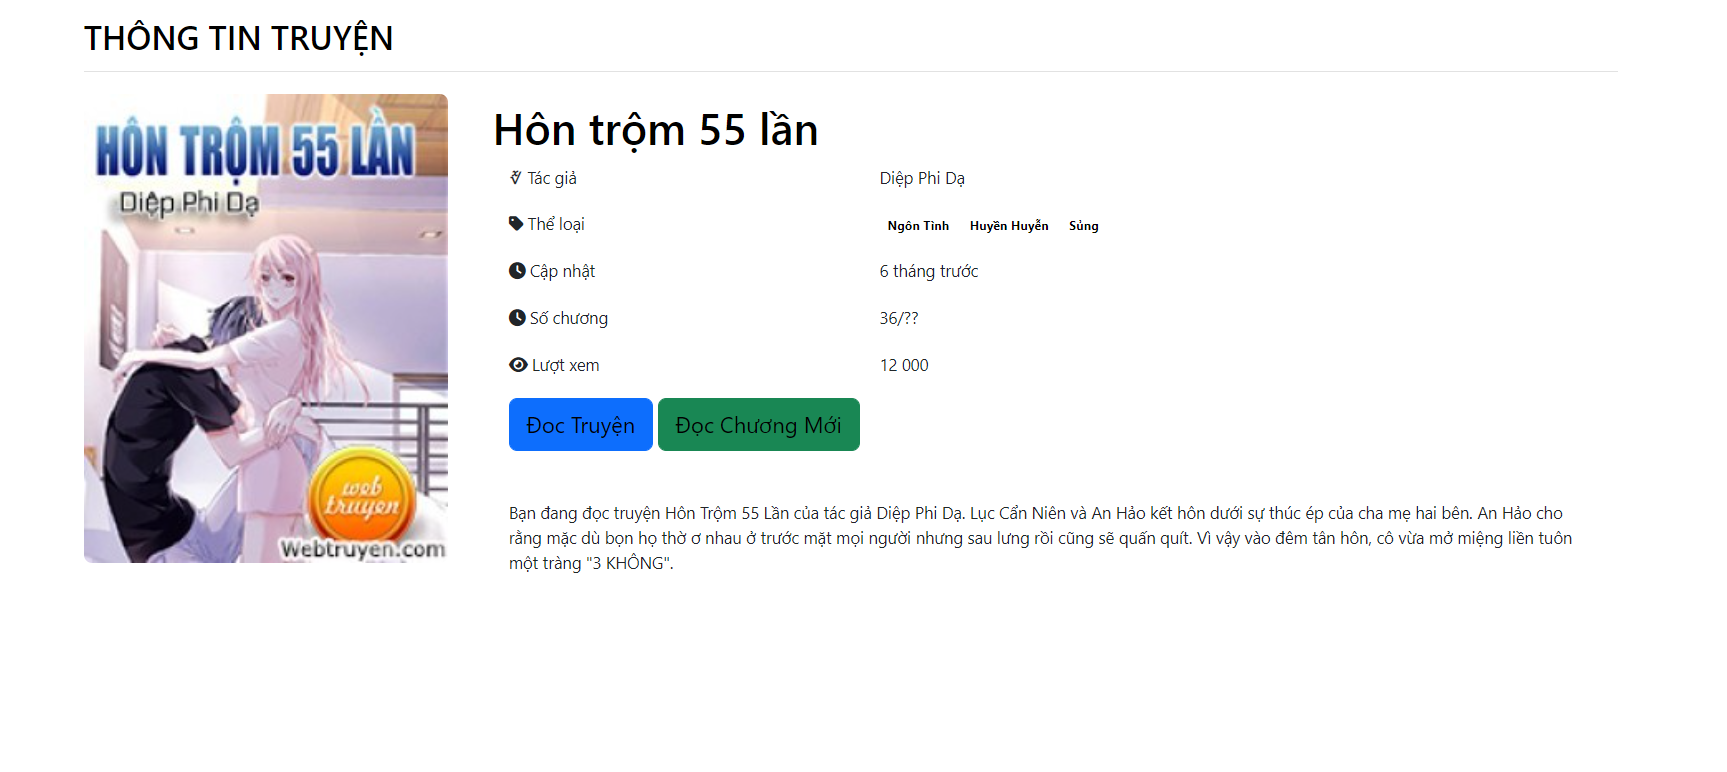
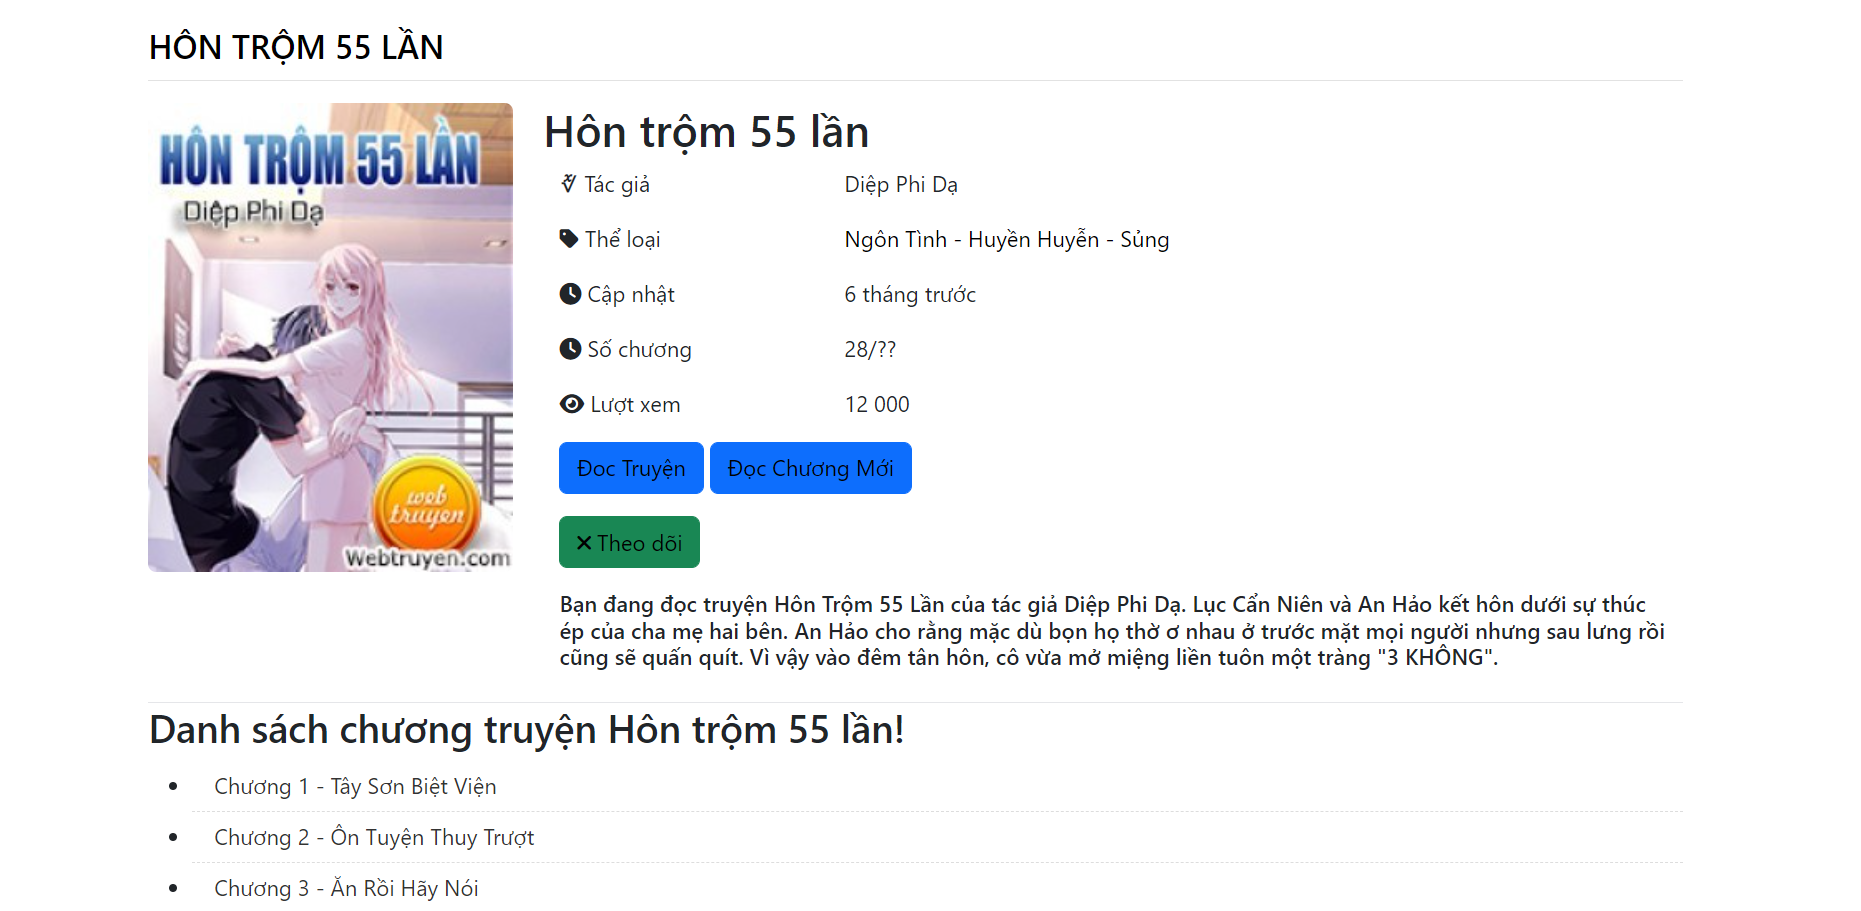
Update module 9

diff --git a/front-end/module/E-09/less/style-09.less b/front-end/module/E-09/less/style-09.less
@@ -22,86 +22,26 @@
             .card-image {
 
                 position: relative;
-
                 .card-img-overlay {
                     // width: 90% !important;
                     transition: all .4s ease-out;
-
                 }
-
-                .m-wrap-genre {
-                    position: absolute;
-                    display: flex;
-                    flex-wrap: wrap;
-                    top: 0;
-                    left: 0;
-                    color: #fff;
-                    transition: all 1s;
-
-                    .genre-item.full::after {
-                        display: block;
-                        content: "FULL";
-                        padding: 0 10px;
-                        border-radius: 3px;
-                        background: #00b47b;
-                        animation: flash 1s alternate infinite;
-                    }
-
-                    .genre-item.new::after {
-                        display: block;
-                        content: "NEW";
-                        padding: 0 10px;
-                        border-radius: 3px;
-                        background: #006ef5;
-                        animation: flash 1s alternate infinite;
-                    }
-
-                    .genre-item.hot::after {
-                        display: block;
-                        content: "HOT";
-                        padding: 0 10px;
-                        border-radius: 3px;
-                        background: #EE2E31;
-                        animation: flash 1s alternate infinite;
-                    }
-
-                    .genre-item {
-                        display: block;
-                        width: 50px;
-                        font-size: .7rem;
-                        font-weight: 500;
-                        margin: 3px;
-                        text-align: center;
-                    }
-
-                }
-            }
-
-            .card-img-overlay:hover {
-                background: rgba(0, 0, 0, .7);
-
-                .m-wrap-genre {
-                    opacity: .2;
-                }
-
-                .card-title {
-                    opacity: .2;
-                }
-
-                .m-wrap-infor {
-                    opacity: .2;
-                }
-
-                .m-group-button {
-                    opacity: 1;
-                }
-            }
-
-            .img-card {
-                height: auto;
                 
             }
 
+        }
+        .card-box {
+            background: #fff;
+            margin-bottom: 12px;
+            border-top: 1px solid #e5e6e9;
+            border-bottom: 1px solid #e5e6e9;
+            .chapters li a {
+                padding: 6px 2px 6px 16px;
+                color: #333;
+                display: block;
+                border-bottom: 1px dashed #ddd;
+                text-transform: capitalize;
+            }
         }
 
     }
@@ -129,7 +69,6 @@
                 .card-title {
                     title{
                         font-weight: 700;
-
                     }
                 }
 

diff --git a/front-end/module/E-09/css/style-09.css b/front-end/module/E-09/css/style-09.css
@@ -22,64 +22,18 @@
 .type-09 .card .col-md-3 .card-image .card-img-overlay {
   transition: all .4s ease-out;
 }
-.type-09 .card .col-md-3 .card-image .m-wrap-genre {
-  position: absolute;
-  display: flex;
-  flex-wrap: wrap;
-  top: 0;
-  left: 0;
-  color: #fff;
-  transition: all 1s;
+.type-09 .card .card-box {
+  background: #fff;
+  margin-bottom: 12px;
+  border-top: 1px solid #e5e6e9;
+  border-bottom: 1px solid #e5e6e9;
 }
-.type-09 .card .col-md-3 .card-image .m-wrap-genre .genre-item.full::after {
+.type-09 .card .card-box .chapters li a {
+  padding: 6px 2px 6px 16px;
+  color: #333;
   display: block;
-  content: "FULL";
-  padding: 0 10px;
-  border-radius: 3px;
-  background: #00b47b;
-  animation: flash 1s alternate infinite;
-}
-.type-09 .card .col-md-3 .card-image .m-wrap-genre .genre-item.new::after {
-  display: block;
-  content: "NEW";
-  padding: 0 10px;
-  border-radius: 3px;
-  background: #006ef5;
-  animation: flash 1s alternate infinite;
-}
-.type-09 .card .col-md-3 .card-image .m-wrap-genre .genre-item.hot::after {
-  display: block;
-  content: "HOT";
-  padding: 0 10px;
-  border-radius: 3px;
-  background: #EE2E31;
-  animation: flash 1s alternate infinite;
-}
-.type-09 .card .col-md-3 .card-image .m-wrap-genre .genre-item {
-  display: block;
-  width: 50px;
-  font-size: .7rem;
-  font-weight: 500;
-  margin: 3px;
-  text-align: center;
-}
-.type-09 .card .col-md-3 .card-img-overlay:hover {
-  background: rgba(0,0,0,0.7);
-}
-.type-09 .card .col-md-3 .card-img-overlay:hover .m-wrap-genre {
-  opacity: .2;
-}
-.type-09 .card .col-md-3 .card-img-overlay:hover .card-title {
-  opacity: .2;
-}
-.type-09 .card .col-md-3 .card-img-overlay:hover .m-wrap-infor {
-  opacity: .2;
-}
-.type-09 .card .col-md-3 .card-img-overlay:hover .m-group-button {
-  opacity: 1;
-}
-.type-09 .card .col-md-3 .img-card {
-  height: auto;
+  border-bottom: 1px dashed #ddd;
+  text-transform: capitalize;
 }
 .type-09 .col-md-9 {
   padding-left: 8px;

diff --git a/front-end/module/E-09/09-content.php b/front-end/module/E-09/09-content.php
@@ -1,7 +1,7 @@
 <div class="type-09">
     <div class="container">
         <div class="title">
-            <h4 class="new__stories__title"> Thông tin truyện</h4>
+            <h4 class="new__stories__title">Hôn trộm 55 lần </h4>
         </div>
         <div class="card my-3">
             <div class="row g-0">
@@ -12,51 +12,82 @@
                     </div>
                 </div>
                 <div class="col-md-9">
-                    <div class="card-body ">
-                        <div class="post-meta">
-                            <h2 class="card-title"> <a class="title" href="#">Hôn trộm 55 lần</a></h2>
-                            <ul class="pl-0 detail-content container-fluid">
-                                <li class="row">
-                                    <p class="col-6 col-sm-4"><i style="font-weight: bold;" class="fal fa-user"></i> Tác giả</p>
-                                    <p class="col-6 col-sm-8">Diệp Phi Dạ</p>
-                                </li>
-                                <li class="row">
-                                    <p class="col-6 col-sm-4"><i style="font-weight: bold;" class="fa fa-tag"></i> Thể loại</p>
-                                    <div class="col-6 col-sm-8">
-                                        <a href="#" class="badge badge-pill badge-primary">Ngôn Tình</a>
-                                        <a href="#" class="badge badge-pill badge-primary">Huyền Huyễn</a>
-                                        <a href="#" class="badge badge-pill badge-primary">Sủng</a>
-                                    </div>
-                                </li>
-                                <li class="row">
-                                    <p class="col-6 col-sm-4"><i style="font-weight: bold;" class="fa fa-clock"></i> Cập nhật</p>
-                                    <p class="col-6 col-sm-8">6 tháng trước</p>
-                                </li>
-                                <li class="row">
-                                    <p class="col-6 col-sm-4"><i style="font-weight: bold;" class="fa fa-clock"></i> Số chương</p>
-                                    <p class="col-6 col-sm-8">36/??</p>
-                                </li>
-                                <li class="row">
-                                    <p class="col-6 col-sm-4"><i style="font-weight: bold;" class="fa fa-eye"></i> Lượt xem</p>
-                                    <p class="col-6 col-sm-8">12 000</p>
-                                </li>
-                                <li class="row">
-                                    <p class="col-12">
-                                        <a id="read_story" href="#" class="btn btn-primary read-first-chap">Đoc Truyện</a>
-                                        <a id="read_new_story" href="#" class="btn btn-success read-new-chap">Đọc Chương Mới</a>
-                                    </p>
-                                </li>
-                                <li class="row">
-                                    <h7 class="content">Bạn đang đọc truyện Hôn Trộm 55 Lần của tác giả Diệp Phi Dạ. Lục Cẩn Niên và An Hảo kết hôn dưới sự thúc ép của cha mẹ hai bên. An Hảo cho rằng mặc dù bọn họ thờ ơ nhau ở trước mặt mọi người nhưng sau lưng rồi cũng sẽ quấn quít. Vì vậy vào đêm tân hôn, cô vừa mở miệng liền tuôn một tràng "3 KHÔNG".</h7>
-                                </li>
-
-                            </ul>
-                        </div>                       
-                    </div>
+                    <div></div>
+                    <h2 class="card-title"> Hôn trộm 55 lần</h2>
+                    <ul class="pl-0 detail-content container-fluid">
+                        <li class="row">
+                            <p class="col-3"><i style="font-weight: bold;" class="fas fa-user-edit"></i> Tác giả</p>
+                            <p class="col-9">Diệp Phi Dạ</p>
+                        </li>
+                        <li class="row">
+                            <p class="col-3"><i style="font-weight: bold;" class="fa fa-tag"></i> Thể loại</p>
+                            <div class="col-9">
+                                <a href="#">Ngôn Tình -</a>
+                                <a href="#">Huyền Huyễn -</a>
+                                <a href="#">Sủng</a>
+                            </div>
+                        </li>
+                        <li class="row">
+                            <p class="col-3"><i style="font-weight: bold;" class="fa fa-clock"></i> Cập nhật</p>
+                            <p class="col-9">6 tháng trước</p>
+                        </li>
+                        <li class="row">
+                            <p class="col-3"><i style="font-weight: bold;" class="fa fa-clock"></i> Số chương</p>
+                            <p class="col-9">28/??</p>
+                        </li>
+                        <li class="row">
+                            <p class="col-3"><i style="font-weight: bold;" class="fa fa-eye"></i> Lượt xem</p>
+                            <p class="col-9">12 000</p>
+                        </li>
+                        <li class="row">
+                            <p class="col-12">
+                                <a id="read_story" href="#" class="btn btn-primary read-first-chap">Đoc Truyện</a>
+                                <a id="read_new_story" href="#" class="btn btn-primary read-new-chap">Đọc Chương Mới</a>
+                            <div class="follow"><a class="follow-link btn btn-success"><i class="fa fa-times"></i> Theo dõi</a></div>
+                            </p>
+                        </li>
+                        <li class="row">
+                            <h6 class="content">Bạn đang đọc truyện Hôn Trộm 55 Lần của tác giả Diệp Phi Dạ. Lục Cẩn Niên và An Hảo kết hôn dưới sự thúc ép của cha mẹ hai bên. An Hảo cho rằng mặc dù bọn họ thờ ơ nhau ở trước mặt mọi người nhưng sau lưng rồi cũng sẽ quấn quít. Vì vậy vào đêm tân hôn, cô vừa mở miệng liền tuôn một tràng "3 KHÔNG".</h6>
+                        </li>
+                    </ul>
                 </div>
+            </div>
+            <div class="card-box" id="chapters">
+                <header>
+                    <h3> Danh sách chương truyện Hôn trộm 55 lần!</h3>
+                </header>
+                <ul class="chapters v0">
+                    <li class="vip-0"><a href="#" title="Chương 1 - Tây Sơn biệt viện">Chương 1 - Tây Sơn biệt viện</a></li>
+                    <li class="vip-0"><a href="#" title="Chương 2 - Ôn Tuyện thuy trượt">Chương 2 - Ôn Tuyện thuy trượt</a></li>
+                    <li class="vip-0"><a href="#" title="Chương 3 - Ăn rồi hãy nói">Chương 3 - Ăn rồi hãy nói</a></li>
+                    <li class="vip-0"><a href="#" title="Chương 4 - Xuân triều nóng bỏng">Chương 4 - Xuân triều nóng bỏng</a></li>
+                    <li class="vip-0"><a href="#" title="Chương 5 - Chưa từng sảng khoái đến thế">Chương 5 - Chưa từng sảng khoái đến thế</a></li>
+                    <li class="vip-0"><a href="#" title="Chương 6 - Sao cơ thể nàng câu người như vậy ?">Chương 6 - Sao cơ thể nàng câu người như vậy ?</a></li>
+                    <li class="vip-0"><a href="#" title="Chương 7 - Muốn xuất ra">Chương 7 - Muốn xuất ra</a></li>
+                    <li class="vip-0"><a href="#" title="Chương 8 - Dưới lớp mặt nạ">Chương 8 - Dưới lớp mặt nạ</a></li>
+                    <li class="vip-0"><a href="#" title="Chương 9 - Rõ ràng hôm qua rất sung sướng">Chương 9 - Rõ ràng hôm qua rất sung sướng</a></li>
+                    <li class="vip-0"><a href="#" title="Chương 10 - Không thể như vậy">Chương 10 - Không thể như vậy</a></li>
+                    <li class="vip-0"><a href="#" title="Chương 11 - Tư Thế Dâm Đãng">Chương 11 - Tư Thế Dâm Đãng</a></li>
+                    <li class="vip-0"><a href="#" title="Chương 12 - Bàn chuyện trong thư thế hoan ái">Chương 12 - Bàn chuyện trong thư thế hoan ái</a></li>
+                    <li class="vip-0"><a href="#" title="Chương 13 - Cho nàng giảm nhiệt một chút">Chương 13 - Cho nàng giảm nhiệt một chút</a></li>
+                    <li class="vip-0"><a href="#" title="Chương 14 - Vậy thì dùng miệng">Chương 14 - Vậy thì dùng miệng</a></li>
+                    <li class="vip-0"><a href="#" title="Chương 15 - Không thể làm hỏng">Chương 15 - Không thể làm hỏng</a></li>
+                    <li class="vip-0"><a href="#" title="Chương 16 - Muốn nhanh chóng mang thai">Chương 16 - Muốn nhanh chóng mang thai</a></li>
+                    <li class="vip-0"><a href="#" title="Chương 17 - Mỹ nhân tự sướng">Chương 17 - Mỹ nhân tự sướng</a></li>
+                    <li class="vip-0"><a href="#" title="Chương 18 - Nói! Muốn cái gì ?!">Chương 18 - Nói! Muốn cái gì ?!</a></li>
+                    <li class="vip-0"><a href="#" title="Chương 19 - Nghe lén">Chương 19 - Nghe lén</a></li>
+                    <li class="vip-0"><a href="#" title="Chương 20 - Tự mình chuyển động">Chương 20 - Tự mình chuyển động</a></li>
+                    <li class="vip-0"><a href="#" title="Chương 21 - Tên gọi .">Chương 21 - Tên gọi .</a></li>
+                    <li class="vip-0"><a href="#" title="Chương 22 - &quot; Săn sóc&quot; nó một lần đi">Chương 22 - " Săn sóc" nó một lần đi</a></li>
+                    <li class="vip-0"><a href="#" title="Chương 23 - Ăn ngon không?">Chương 23 - Ăn ngon không?</a></li>
+                    <li class="vip-0"><a href="#" title="Chương 24 - Thay đổi đáng sợ">Chương 24 - Thay đổi đáng sợ</a></li>
+                    <li class="vip-0"><a href="#" title="Chương 25 - Cạm bẫy dịu dàng">Chương 25 - Cạm bẫy dịu dàng</a></li>
+                    <li class="vip-0"><a href="#" title="Chương 26 - Cùng nhau ăn">Chương 26 - Cùng nhau ăn</a></li>
+                    <li class="vip-0"><a href="#" title="Chương 27 - Yêu và dục">Chương 27 - Yêu và dục</a></li>
+                    <li class="vip-0"><a href="#" title="Chương 28 - Chỉ có nàng">Chương 28 - Chỉ có nàng</a></li>
+                </ul>
             </div>
         </div>
 
     </div>
 </div>
-
